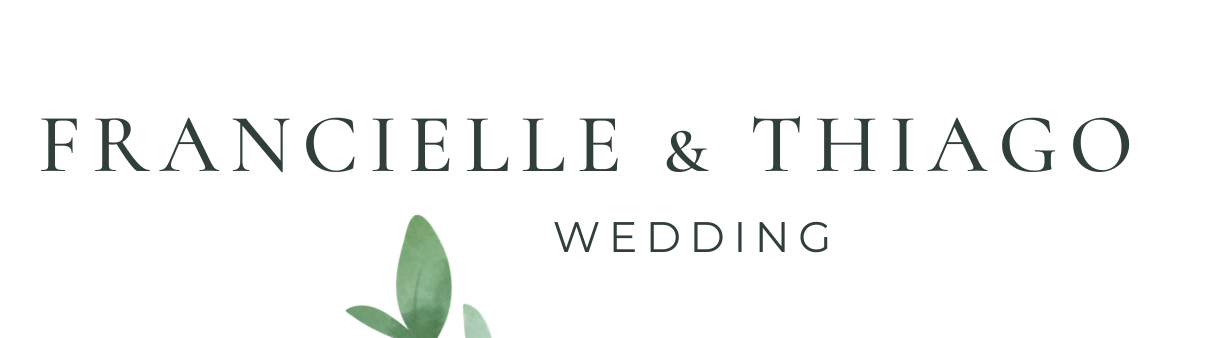
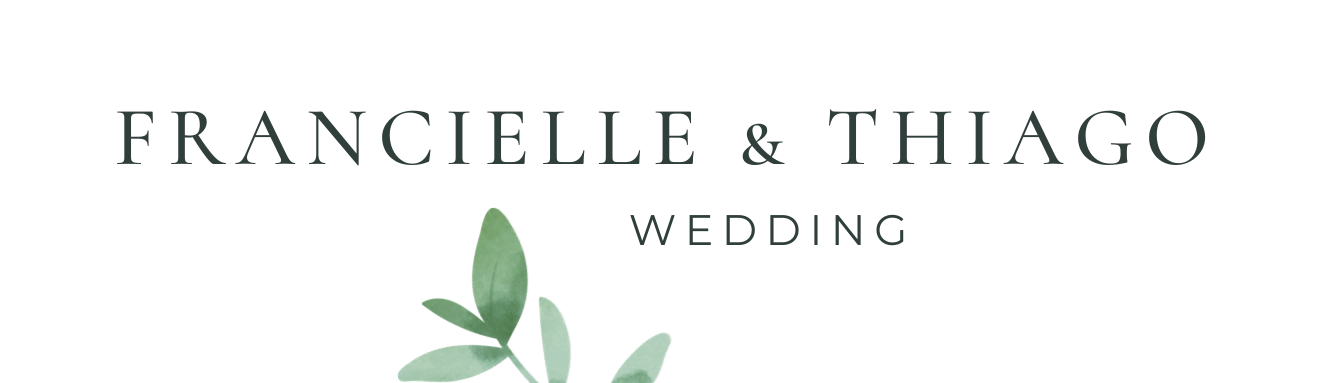
modificacoes gerais

diff --git a/index.html b/index.html
@@ -4,7 +4,8 @@
         <meta charset="UTF-8">
         <meta http-equiv="X-UA-Compatible" content="IE=edge">
         <meta name="viewport" content="width=device-width, initial-scale=1.0">
-        <link rel="stylesheet" href="style.css">
+        <link rel="stylesheet" href="style.css" media="screen and (min-width:641px)">
+        <link  rel="stylesheet" href="smartphone.css" media="screen and (max-width 640px)">
         <title>Wedding F & T</title>
         <link rel="apple-touch-icon" sizes="57x57" HREF="apple-icon-57x57.png">
         <link rel="apple-touch-icon" sizes="60x60" HREF="apple-icon-60x60.png">
@@ -15,7 +16,7 @@
         <link rel="apple-touch-icon" sizes="144x144" HREF="apple-icon-144x144.png">
         <link rel="apple-touch-icon" sizes="152x152" HREF="apple-icon-152x152.png">
         <link rel="apple-touch-icon" sizes="180x180" HREF="apple-icon-180x180.png">
-        <link rel="icon" type="image/png" sizes="192x192"  HREF="android-icon-192x192.png">
+        <link rel="icon" type="image/png" sizes="192x192" HREF="android-icon-192x192.png">
         <link rel="icon" type="image/png" sizes="32x32" HREF="favicon-32x32.png">
         <link rel="icon" type="image/png" sizes="96x96" HREF="favicon-96x96.png">
         <link rel="icon" type="image/png" sizes="16x16" HREF="favicon-16x16.png">
@@ -27,23 +28,48 @@
 
     <body>
         <header>
-            <h1><img src="imagemfundo5.png"></h1> 
-
-            <nav> 
-				<ul>
-					<li> <a href="https://www.youtube.com/playlist?list=PLJqa0TT02mJ2L1_bAlzD5CfAUoI_bvRN6&ab_channel=MKMUSICMKMUSIC"><img src="som.gif" border="0" height="80" width="85" alt="acessar youtube music"></a></li>
-					<li> <a href="https://www.youtube.com/channel/UCDVcoI1lQ7dFNXDceEUcarw"><img src="youtube.gif" border="0" height="60" width="65" alt="acessar youtube live"></a></li>
-					<li> <a href="https://www.instagram.com/fran.soarees/"><img src="insta.gif" border="0" height="60" width="65" alt="instagram para contato"></a></li>
-                    <audio id="player" autoplay="autoplay" controls="controls"><source src="musicavalenca.mp3" type="audio/mp3" />seu navegador não suporta HTML5</audio>
-				</ul>
-          
-                <section class="grid grid-template-columns-2">
-                    <div></div>
-    
-                </section>
+            
+            <div>
+                <h1>
+                    <img class="caixa" src="imagemfundo5.png">
+                </h1> 
+                
         
+                <nav> 
+                    <ul>
+                        <li>
+                            <a href="https://www.youtube.com/playlist?list=PLJqa0TT02mJ2L1_bAlzD5CfAUoI_bvRN6&ab_channel=MKMUSICMKMUSIC">
+                                <img class="teste" src="som.gif" alt="acessar youtube music">
+                                Nossa playlist
+                            </a>
+                        </li> 
+                        <li>
+                            <a href="https://www.youtube.com/channel/UCDVcoI1lQ7dFNXDceEUcarw">
+                                <img class="teste2" src="youtube.gif"  alt="acessar youtube live">
+                                Nosso canal
+                            </a>
+                        </li>
+                        <li>
+                            <a href="https://www.instagram.com/fran.soarees/">
+                                <img class="teste2" src="insta.gif"  alt="instagram para contato">
+                                Nosso perfil
+                            </a>
+                        </li>
+                        
+                    </ul>
+                </nav>
+            </div>
+            <section>
+                <div class="som">
+                    <audio id="player" autoplay="autoplay" controls="controls">
+                        <source src="sendmusi.mp3" type="audio/mp3"/>
+                        seu navegador não suporta HTML5
+                    </audio>
+                </div>
+            </section>
         </header>
-        
+
+    
         <div class="principal">
 			<h3 class="titulo-centralizado">Sobre nós</h3>
             <p>Francielle e Thiago,<strong> namorados, noivos e atualmente casados no civil (desde 1 de julho 2021), e estaremos casando no religioso (em 24 de outubro 2021).</strong> traz para o...</p>
@@ -51,11 +77,18 @@
 			<p>...</p>
         </div>
 
-        <div class="casalft">
-            <h3> Subtitulo... </h3>
-            <img src="casal.jpg" class="imagem2">
-            <img src="casalft.jpg" class="imagem2">
-            <img src="Logotipo.png" class="imagem2">
+        <div class="fotos">
+            <h3> Momentos fotinhas... </h3>
+            <img src="casal.jpg">
+            <img src="casalft.jpg">
+            <img src="ui.jpg">
+            <img src="rs.jpg">
+            <img src="bj.jpg">
         </div>
+
+        <footer>
+			<img src="casalzin.gif">
+			<p class="copyright">&copy; Copyright  Wedding F & T - 2021</p>
+		</footer>
     </body>
 </html>

diff --git a/style.css b/style.css
@@ -1,41 +1,43 @@
 header{
-    background: white;
+    background: rgb(114, 112, 112);
+    max-width: 100%;
+
 }
 
-nav li {
+
+.caixa{
+    max-width: 100%;
+    height: 100%;
+}
+
+nav{
+    position: absolute;
+    top: 1px;
+    right: 0;
+}
+
+nav li{
 	display: inline;
-    margin: 0 0 0 15px;
+    margin: 0 0 0 5px;
 }
 
-nav a {
+nav a{
 	text-transform: uppercase;
-	color: #ffffff;
+	color: #af5002;
 	font-weight: bold;
 	font-size: 22px;
 	text-decoration: none;
 }
 
+nav a:hover {
+	color: #000000;
+	text-decoration: underline;
+}
+
 body{
-    background-image: url(imagemfundo.png);
     background-color: #ff73007a;
-    background-repeat: no-repeat;
-    background-attachment: fixed;
-    background-size: cover;
 }
 
-#item{
-    position: relative; 
-}
-
-.grid-template-columns-2 {
-	grid-template-columns: 1fr 2fr;
-}
-
-
-.principal{
-	background: #CCCCCC;
-	padding: 30px;
-}
 
 .titulo-centralizado {
 	text-align: center;
@@ -47,42 +49,59 @@ p {
 
 em strong {
 	color: #c46f00; 
-    background-color: rgba(255, 255, 255, 0.411);
+    background-color: rgba(0, 0, 0, 0.411);
 }
 
-.casalft {
-    background: #ffffff73;
-	padding: 50px;
-}
-
-.itens {
-	font-style: italic;
-}
-
- .imagem2 {
-    width: 75%;
-    display: block;
-    margin-left: auto;
-    margin-right: auto;   
-}
-
-#casal {
-    width: 100%;
+.fotos {
+    max-width: 100%;
+    border: 15px;
+    height: 100%;
+    display: inline;
+    margin: 100%;  
 }
 
 .texto{
     position: absolute;
-      background-color: rgba(0,0,0,0.5);
-      color:#fff;
-      text-align: center;
-      top: 100px;
-      width: 250px;
-      line-height: 30px;
-      height: 30px;
+    background-color: rgba(0,0,0,0.5);
+    color:#fff;
+    text-align: center;
+    top: 100px;
+    width: 250px;
+    line-height: 30px;
+    height: 30px;
 }
 
 .principal {
     background: #ffffff73;
-	padding: 30px;
+	max-width: 100%;
 }
 
+.som{
+    width: 100%;
+    height: 50%;
+}
+
+.teste{
+    border: 0px; 
+    height: 80px; 
+    width: 85px;
+}
+
+.teste2{
+    border: 0px; 
+    height: 60px; 
+    width: 65px;
+}
+
+footer {
+    max-width: 100%;
+	text-align: center;
+	background: url(pe2.jpg);
+	padding: 40px 0;
+}
+
+.copyright{
+	color: #000000;
+	font-size: 15px;
+	margin: 20px;
+}

diff --git a/smartphone.css b/smartphone.css
@@ -1,0 +1,79 @@
+header{
+    background: rgb(20, 19, 19);
+
+}
+
+.caixa{
+	position: relative;
+	width: 940px;
+	margin: 0 auto;
+}
+
+nav{
+    position: absolute;
+    top: 1px;
+    right: 0;
+}
+
+nav li{
+	display: inline;
+    margin: 0 0 0 5px;
+}
+
+nav a{
+	text-transform: uppercase;
+	color: #af5002;
+	font-weight: bold;
+	font-size: 22px;
+	text-decoration: none;
+}
+
+body{
+    background-color: #ff73007a;
+}
+
+
+.titulo-centralizado {
+	text-align: center;
+}
+
+p {
+	text-align: center;
+}
+
+em strong {
+	color: #c46f00; 
+    background-color: rgba(0, 0, 0, 0.411);
+}
+
+.fotos {
+
+    border: 5px;
+    background: #ffffff73;
+	padding: 15px;
+    height: auto;
+    width: auto;
+    display: block;
+    margin: auto;  
+}
+
+.texto{
+    position: absolute;
+      background-color: rgba(0,0,0,0.5);
+      color:#fff;
+      text-align: center;
+      top: 100px;
+      width: 250px;
+      line-height: 30px;
+      height: 30px;
+}
+
+.principal {
+    background: #ffffff73;
+	padding: 30px;
+}
+
+.som{
+    width: 150%;
+    height: 54%;
+}
